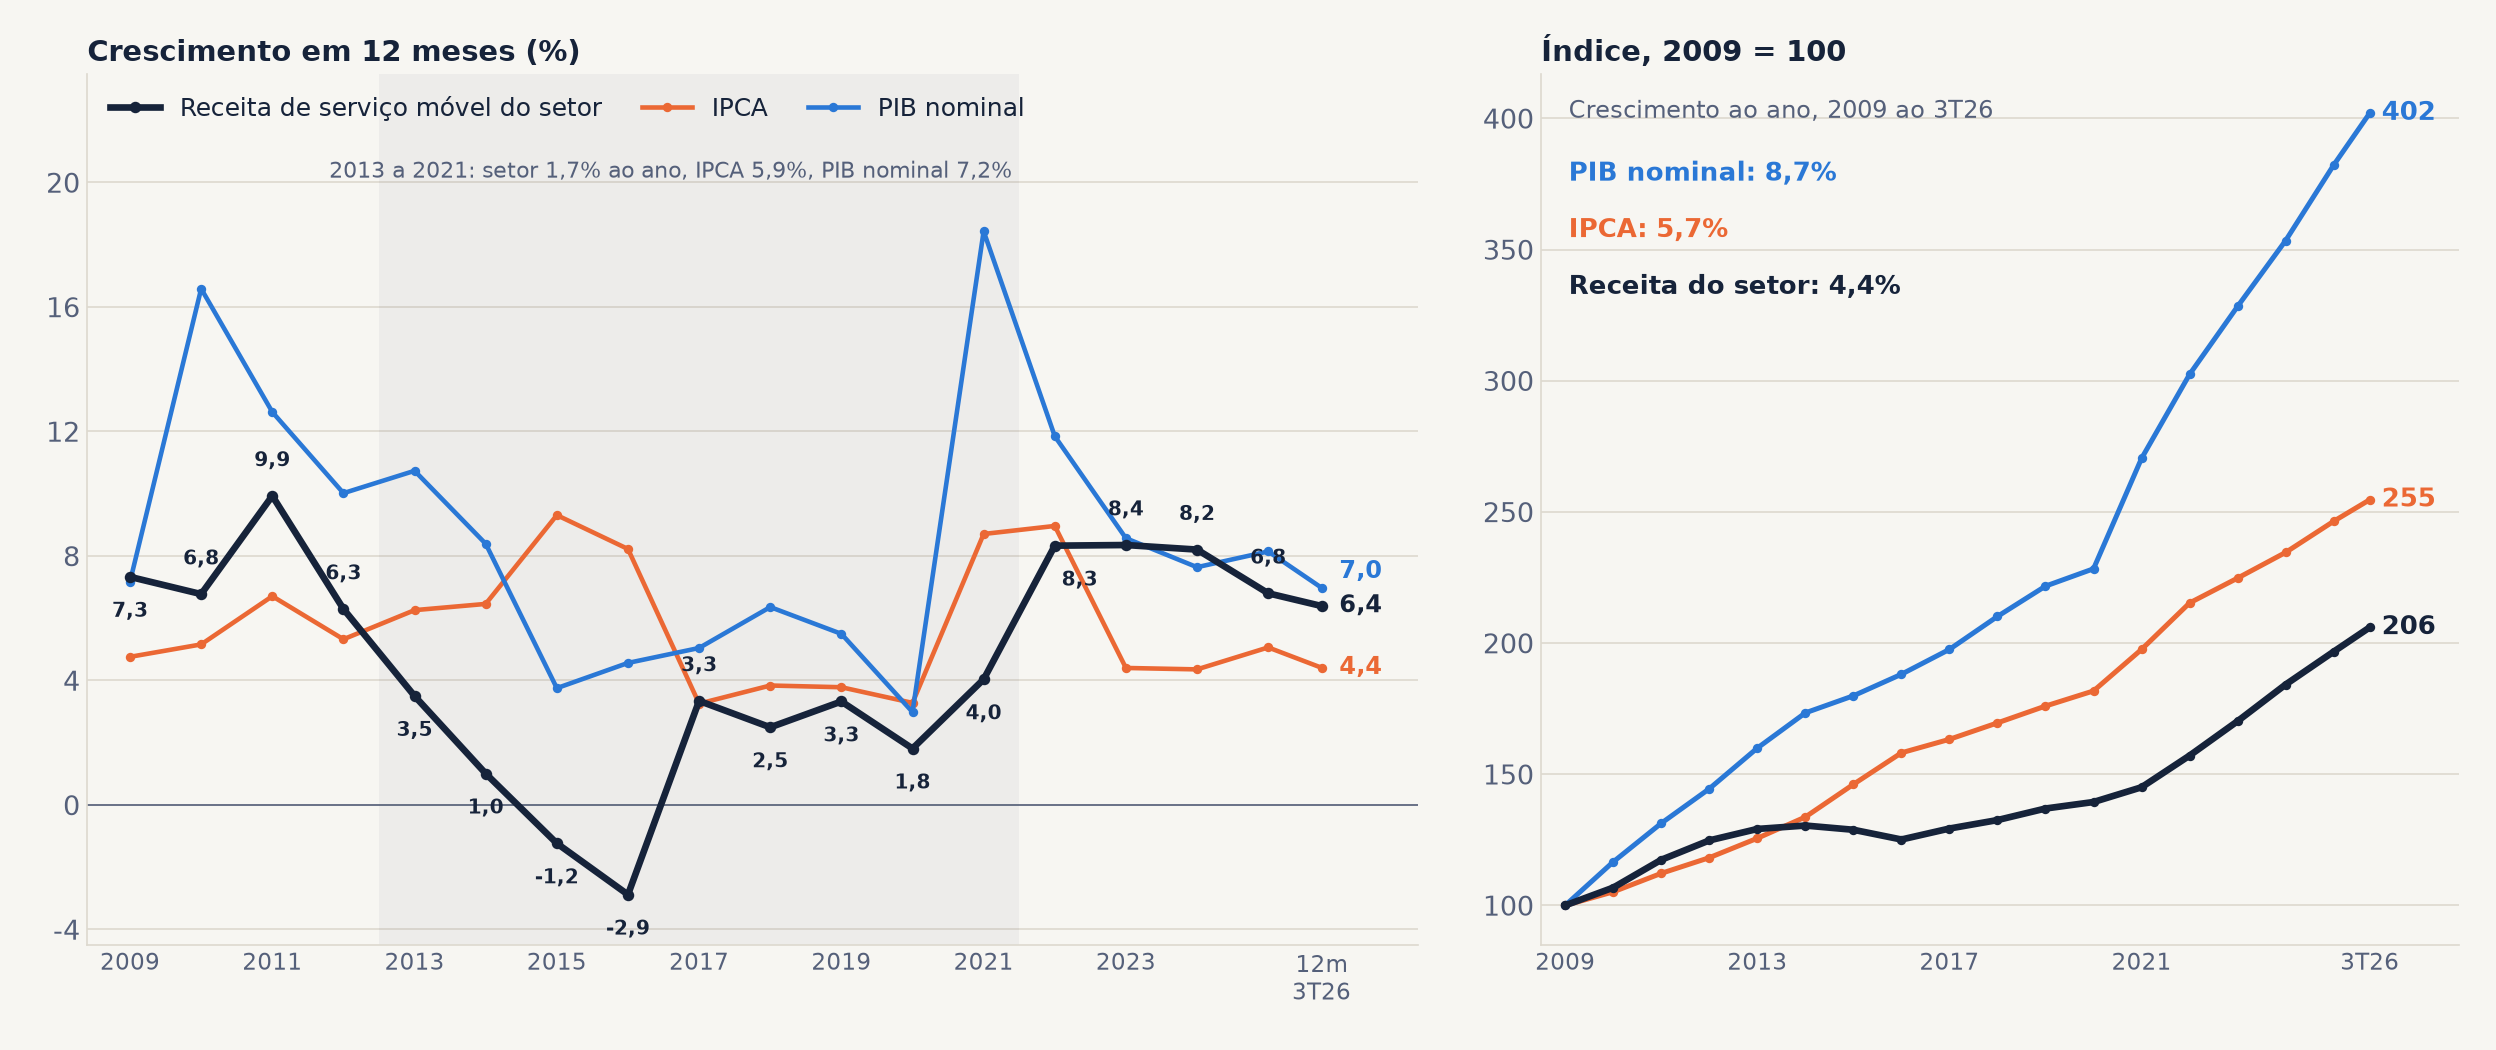
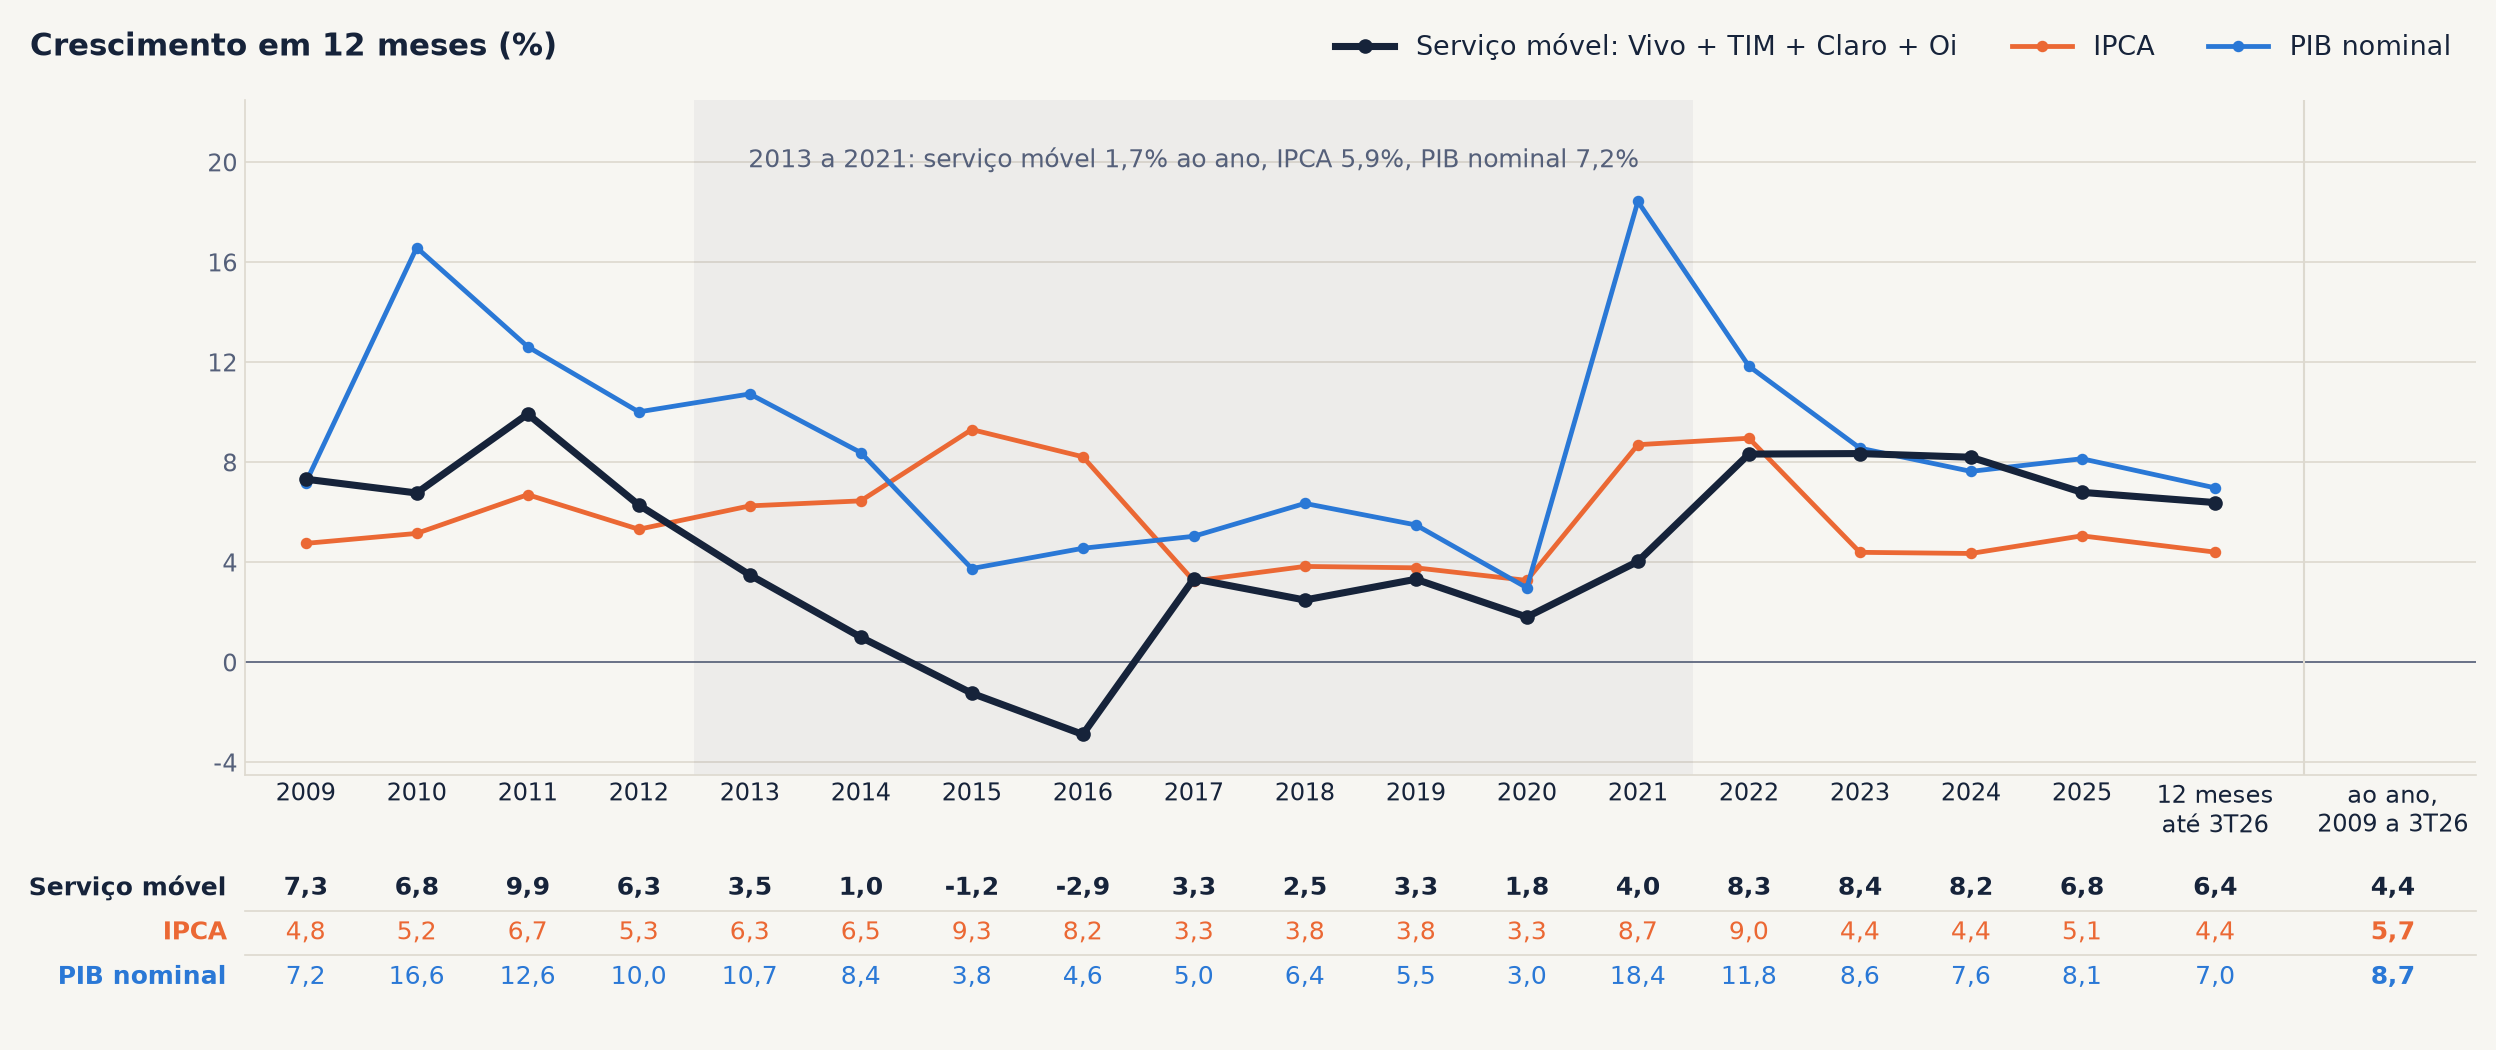
v2.4 · 24/11/2026 18:38 · capa nova e slide 2 em um gráfico
Capa com o subtítulo e os autores; slide 2 com o crescimento do serviço
móvel do setor contra IPCA e PIB nominal em um painel, com a tabela.

diff --git a/index.html b/index.html
@@ -40,20 +40,19 @@ h1, h2, h3 { font-family:'Space Grotesk', Arial, sans-serif; }
 <div id="palco">
 <section id="capa" class="capa" data-transition="fade">
 <div>
-<p class="chip">v2.3 · 24/11/2026 15:36</p>
+<p class="chip">v2.4 · 24/11/2026 18:38</p>
 </div>
 <div>
 <h1>Telecom Brasil: Vivo e TIM</h1>
-<p class="sub">Minhas estimativas contra o mercado, em sete blocos</p>
+<p class="sub">Update pós 3Q26<br>Petros | Rafael Lavourinha / Caio Guita</p>
 </div>
-<p class="roteiro">Setor contra IPCA e PIB · Receita · Margem EBITDA · Crescimento do EBITDA · Capex e arrendamento · Lucro · Payout · Fistel · Valuation</p>
 <aside>Histórico das planilhas de RI e da CVM; estimativas dos modelos de Vivo e TIM de 24/11/2026; casas: Itaú BBA, BBI, BTG, Santander e UBS.</aside>
 </section>
 <section id="setor" data-transition="fade">
 <p class="olho">ABERTURA · O SETOR CONTRA A INFLAÇÃO E O PIB NOMINAL</p>
 <h2 class="titulo">Desde 2009 a receita móvel do setor cresceu 4,4% ao ano, contra IPCA de 5,7% e PIB nominal de 8,7%; de 2013 a 2021 foi 1,7% e só desde 2023 ela volta a superar a inflação</h2>
-<img class="graf" src="img/v3_setor_macro.png" alt="Crescimento em 12 meses da receita de serviço móvel de Vivo, TIM, Claro e Oi somadas, do IPCA e do PIB nominal, de 2009 ao 3T26, e o índice das três séries com base 100 em 2009">
-<p class="fonte">Fonte: RI das companhias, América Móvil (Claro) e releases da Oi na CVM; IBGE (IPCA); Banco Central (PIB nominal em 12 meses, série 4382). Setor: serviço móvel de Vivo, TIM, Claro e Oi em 12 meses, com a Oi dos dois lados em 2022.</p>
+<img class="graf" src="img/v3_setor_macro.png" alt="Crescimento em 12 meses da receita de serviço móvel de Vivo, TIM, Claro e Oi somadas, do IPCA e do PIB nominal, ano a ano de 2009 a 2025 e nos 12 meses até o 3T26, com a tabela dos números e o crescimento ao ano do período">
+<p class="fonte">Fonte: RI das companhias, América Móvil (Claro) e releases da Oi na CVM; IBGE (IPCA, média do índice em 12 meses); Banco Central (PIB nominal em 12 meses, série 4382). Serviço móvel de Vivo, TIM, Claro e Oi somado em 12 meses, com a Oi dos dois lados em 2022.</p>
 <aside>Mesma base dos slides 1 a 3 do deck Móvel Brasil. Receita de serviço móvel das quatro operadoras em 12 meses: 46,3 bi em 2009, 57,8 bi em 2012, 67,2 bi em 2021, 91,1 bi em 2025 e 95,4 bi nos 12 meses até o 3T26. Ao ano: 7,7% de 2009 a 2012, contra IPCA de 5,7% e PIB nominal de 13,0%; 1,7% de 2012 a 2021, contra 5,9% e 7,2%; 7,9% de 2021 a 2025, contra 5,7% e 9,0%; 6,4% nos 12 meses até o 3T26, contra 4,4% e 7,0%. Acima do IPCA de 2009 a 2012 e de 2023 em diante; acima do PIB nominal só em 2009 e 2024. Peso no PIB: 1,39% em 2009, 1,00% em 2015, 0,75% em 2021 e 0,71% no 3T26. O crescimento de 2022 em diante inclui o corte do ICMS de julho de 2022, que somou de 6% a 7% à receita líquida. A partir do 2T22 a receita da Oi está dentro das três compradoras.</aside>
 </section>
 <section id="rol" data-transition="fade">

diff --git a/README.md b/README.md
@@ -1,3 +1,3 @@
 # Telecom Brasil: Vivo e TIM
 
-Deck de telecom (v2.3 · 24/11/2026 15:36):o setor contra a inflação e o PIB, receita, margem, EBITDA, capex e arrendamento, lucro, payout, Fistel e valuation de Vivo e TIM.
+Deck de telecom (v2.4 · 24/11/2026 18:38): o setor contra a inflação e o PIB, receita, margem, EBITDA, capex e arrendamento, lucro, payout, Fistel e valuation de Vivo e TIM.
